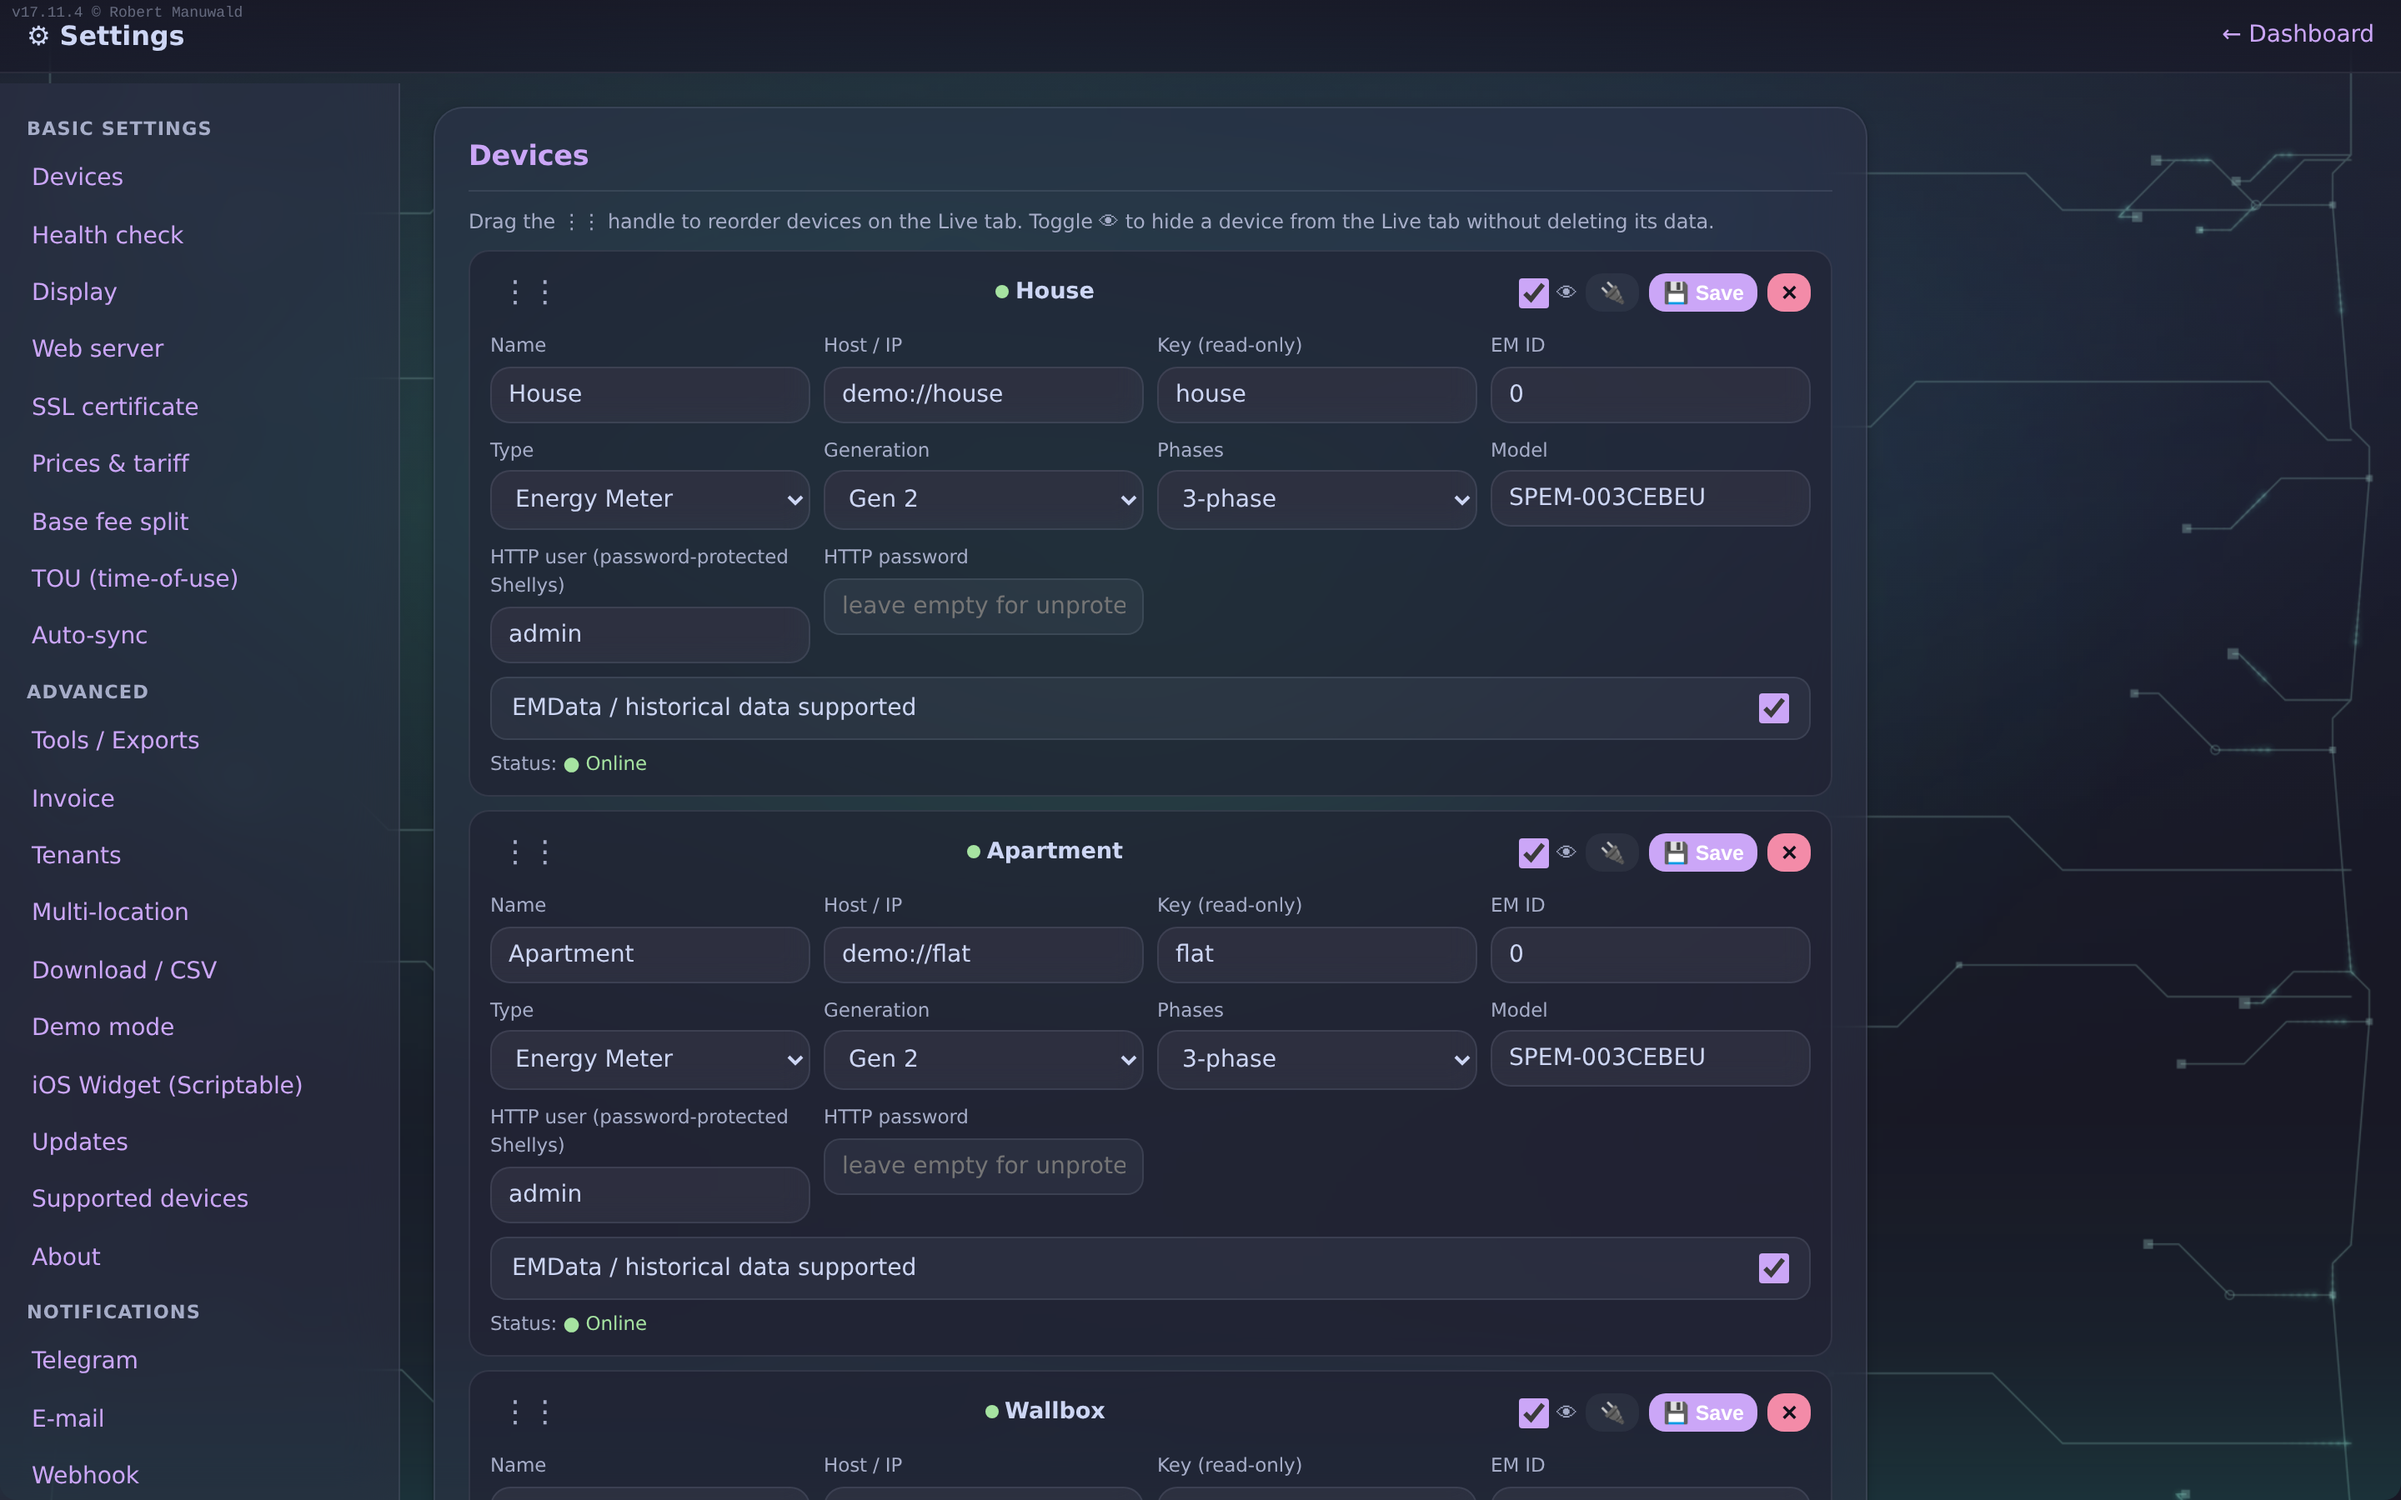
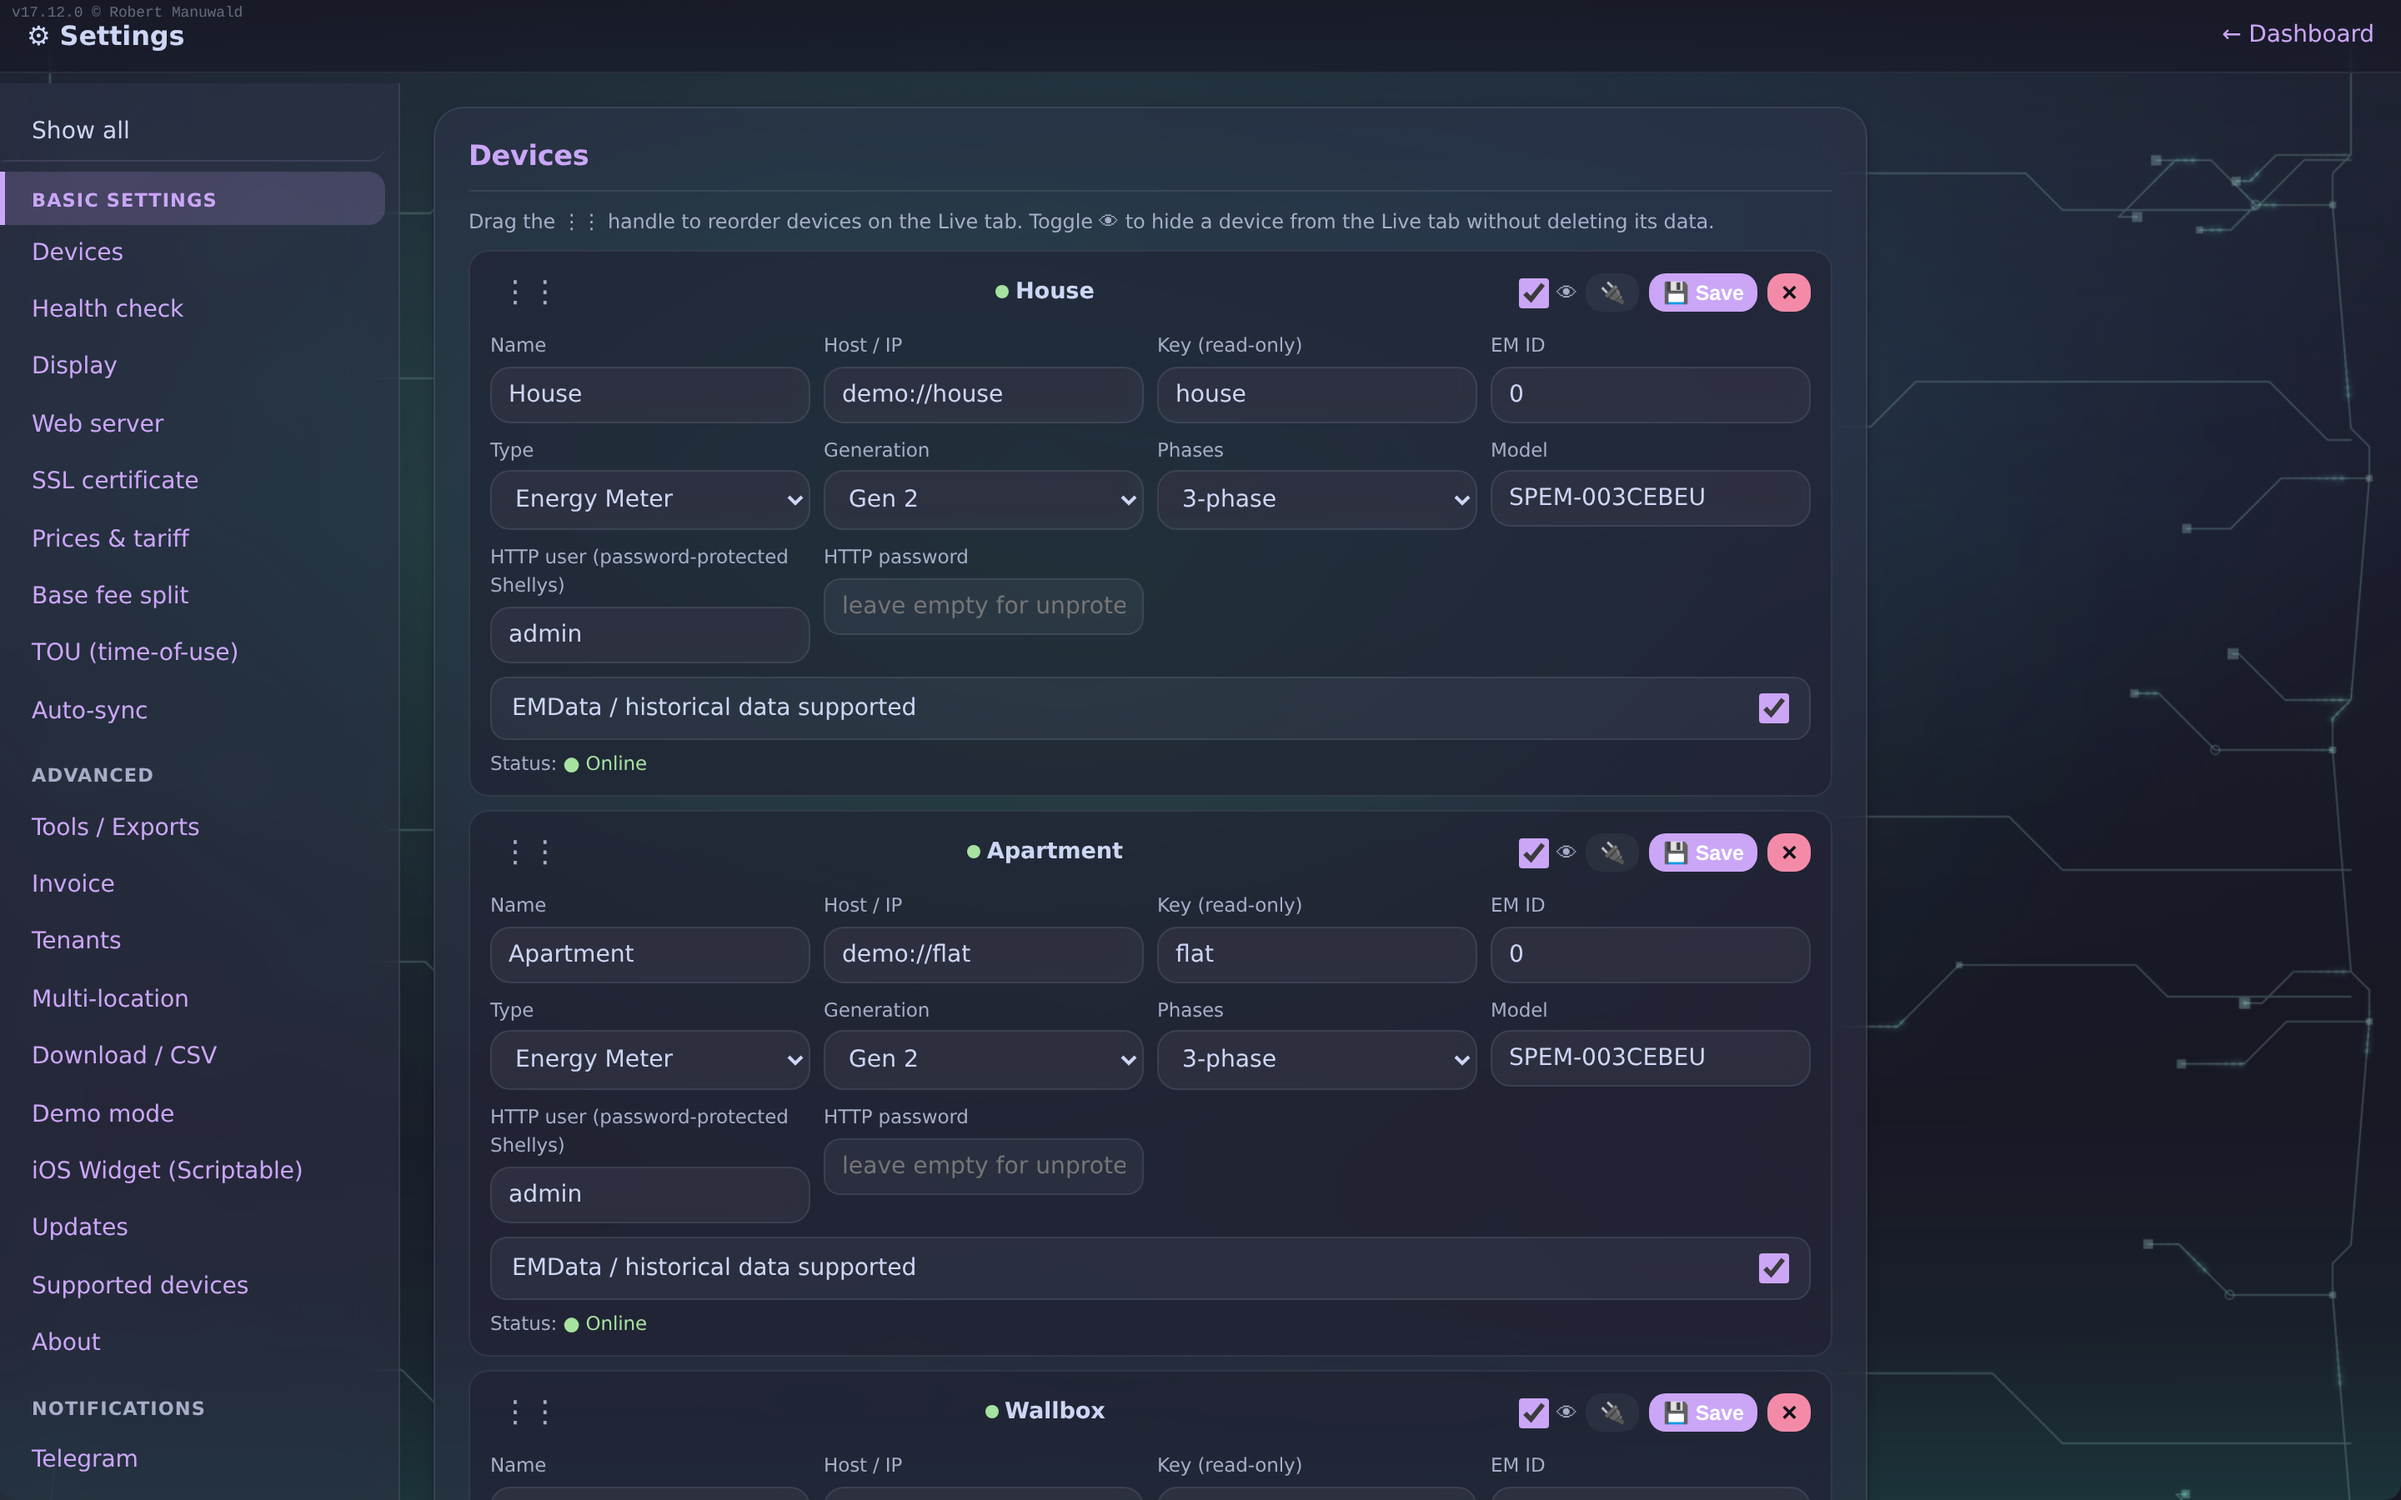
17.12.0: settings show one group per page (#25)
Version, CHANGELOG, README captions; settings screenshots retaken from the
simulator (classic: Notifications group; aurora: Basic settings).

Changed region(s): [[0.0, 0.0622, 0.1562, 0.9956]]

diff --git a/scripts/capture_screenshots.py b/scripts/capture_screenshots.py
@@ -106,6 +106,11 @@ def capture(OUT: Path, ONLY: set) -> None:
             pg.evaluate("document.querySelector('#sec-tools_exports').scrollIntoView()"); pg.wait_for_timeout(500)
             box=pg.locator('#sec-tools_exports').bounding_box()
             pg.screenshot(path=OUT/'desktop_15_export.png', clip={'x':box['x']-10,'y':box['y']-10,'width':box['width']+20,'height':540})
+        if want('desktop_19_settings'):
+            # one group per page: the Notifications group with its menu entry marked
+            pg.set_viewport_size({'width':1510,'height':1000})
+            pg.goto(URL+'settings#grp-notify'); pg.wait_for_timeout(5000)
+            pg.screenshot(path=OUT/'desktop_19_settings.png')
         ctx.close()
         ctx=b.new_context(viewport={'width':1920,'height':1080},device_scale_factor=2,color_scheme='dark',locale='en-US')
         pg=ctx.new_page()

diff --git a/src/shelly_analyzer/__init__.py b/src/shelly_analyzer/__init__.py
@@ -2,4 +2,4 @@
 
 __all__ = ["__version__"]
 
-__version__ = "17.11.13"
+__version__ = "17.12.0"

diff --git a/CHANGELOG.md b/CHANGELOG.md
@@ -2,6 +2,19 @@
 
 ## [Unreleased]
 
+## 17.12.0
+
+### Changed
+
+- **Settings: one group per page.** The settings page no longer shows every card on one long page. The group headings of the menu (Basic settings, Advanced, Notifications, Integrations, Energy, Features) are links that show only that group's cards; a card entry switches to its group and jumps to the card. The menu marks the open group and card. "Show all" at the top of the menu brings back the long page, now in menu order (Advanced cards follow Basic settings instead of coming last). Every group has its own address to bookmark (`/settings#grp-notify`, `#grp-energy`, `#grp-all`, ...); existing card links such as `/settings#sec-updates` pick their group by themselves. Settings and how they are saved are unchanged.
+- **Phones:** the group links form a grid of touch-sized tabs that wraps instead of scrolling sideways; the cards of the open group follow below.
+
+### Fixed
+
+- Settings at 390 px: the device action buttons and the iOS widget buttons no longer leave a single button on its own row, the "show on Live tab" toggle is 44 px wide, and the long inverter preset list no longer pushes the page sideways in WebKit.
+- Settings → About: the companion link reads as a name instead of a bare web address (all nine languages).
+- The "Features" group heading was not translated (it looked up a key that does not exist); it now uses the existing translations.
+
 ## 17.11.13
 
 ### Added

diff --git a/README.md b/README.md
@@ -231,7 +231,7 @@ digests, so they always add up.
 
 <p><img src="docs/screenshots/aurora_desktop_plots.png" width="640" alt="Plots"><br><sub><b>Plots</b> &mdash; One row per device, its metrics side by side.</sub></p>
 
-<p><img src="docs/screenshots/aurora_desktop_settings.png" width="640" alt="Settings"><br><sub><b>Settings</b> &mdash; Every option the app has, including the skin picker.</sub></p>
+<p><img src="docs/screenshots/aurora_desktop_settings.png" width="640" alt="Settings"><br><sub><b>Settings</b> &mdash; Every option the app has, including the skin picker, one group per page (each group has its own link; <i>Show all</i> brings back the long page).</sub></p>
 
 </details>
 
@@ -327,7 +327,7 @@ skin off the dashboard is byte-for-byte what it was — this is not a compatibil
 
 <p><img src="docs/screenshots/desktop_18_sync.png" width="640" alt="Sync"><br><sub><b>Sync</b></sub></p>
 
-<p><img src="docs/screenshots/desktop_19_settings.png" width="640" alt="Settings"><br><sub><b>Settings</b></sub></p>
+<p><img src="docs/screenshots/desktop_19_settings.png" width="640" alt="Settings"><br><sub><b>Settings</b> &mdash; The Notifications group on its own page</sub></p>
 
 <p><img src="docs/screenshots/desktop_01_live_detail.png" width="640" alt="Live detail"><br><sub><b>Live (chart zoom)</b></sub></p>
 
